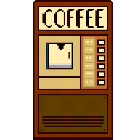
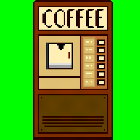
sauvgarde link model-controller objets et portes

diff --git a/Controller/controller.c b/Controller/controller.c
@@ -5,7 +5,58 @@
 #include "../Controller/controller.h"
 
 
-int move_robot(View_app *view_app) {
+VertexList * init_game_engine(){
+    // creates room from file
+    VertexList * graph = readGraphFile("./Files_descriptors/Graph_Tests.txt");
+    Room * room1 = readRoomFile("./Files_descriptors/Room_Tests.txt");
+    Room * room2 = readRoomFile("./Files_descriptors/Room2.txt");
+
+    associateRoomWithVertexList(graph,room1);
+    associateRoomWithVertexList(graph, room2);
+/*
+    printGraph(graph);
+    setOnFirstVertex(graph);
+    printRoom(graph->current->R);
+    setOnNextVertex(graph);
+    printRoom(room2);*/
+    return graph;
+}
+
+void showRoom (View_app * view_app,Room * room){
+    update_room(room->name,room->filename,view_app);
+    int obj_id = 0;
+    for (int i = 0; i<=room->nb_i; i++){
+        for (int j= 0; j<=room->nb_j; j++){
+            fprintf(stdout, "ok1\n");
+            if (room->framing[i][j].o != NULL){
+                fprintf(stdout, "ok2\n");
+                SDL_Rect temp = {room->framing[i][j].Pos_x,room->framing[i][j].Pos_y,room->w,room->h};
+                view_app->object[obj_id].position = temp;
+                init_object(view_app,obj_id,room->framing[i][j].o->file_name);
+                obj_id ++;
+            }
+        }
+    }
+    if (room->framing[2][0].d != NULL){
+        if (strcmp(room->framing[2][0].d->id, "BRB")==0){
+
+            SDL_Rect temp = {room->framing[2][0].Pos_x,room->framing[2][0].Pos_y,room->w,room->h};
+            view_app->object[obj_id].position = temp;
+            init_object(view_app,obj_id,room->framing[2][0].d->file_name);
+            obj_id ++;
+        }
+    }
+    if (room->framing[2][8].d != NULL){
+        if (strcmp(room->framing[2][8].d->id, "BRB")==0){
+            SDL_Rect temp = {room->framing[2][8].Pos_x,room->framing[2][8].Pos_y,room->w,room->h};
+            view_app->object[obj_id].position = temp;
+            init_object(view_app,obj_id,room->framing[2][8].d->file_name);
+            obj_id ++;
+        }
+    }
+}
+
+int move_robot(View_app *view_app,VertexList * graph) {
     SDL_Point point;
 
     int isRunning = 1;
@@ -16,13 +67,8 @@ int move_robot(View_app *view_app) {
         fprintf (stderr, "failed init character \n");
         return EXIT_FAILURE;
     }
-
     Personage * p= CreatePersonage();
-    char filename [30];
-    strcpy(filename,"./img/coffee.png") ;
-    SDL_Rect temp = {420,140,140,140};
-    view_app->object[1].position = temp;
-    init_object(view_app,1,filename);
+    showRoom(view_app,graph->current->R);
     personWalkDown(view_app);
     move_down(p, 5);
 
@@ -124,7 +170,10 @@ int main_controller(View_app *view_app){
                                             return EXIT_FAILURE;
                                         }
                                         view_app->Actual = Play;
-                                        move_robot(view_app);
+                                        VertexList * graph = init_game_engine();printf("ok\n");
+                                        setOnFirstVertex(graph);
+                                        move_robot(view_app, graph);
+
                                         free_Windows(&view_app->Game);
                                         //executing menu window initialisation and checking it worked
                                         if (init_menu(&view_app->Menu) != EXIT_SUCCESS) {

diff --git a/View/main_view.c b/View/main_view.c
@@ -290,13 +290,13 @@ int init_game(Windows  * game_window){
         fprintf(stderr, "error SDL_CreateTexture : %s", SDL_GetError());
         return EXIT_FAILURE;
     }
-    game_window->Type=Rules;
+    game_window->Type = Play;
     get_Tittle (game_window->Type , game_window->title);
     SDL_SetWindowTitle(game_window->window, game_window->title);
 
     SDL_Surface *tmp = NULL;
     SDL_Texture *texture = NULL;
-    tmp = IMG_Load("img/Framing.png");
+    tmp = IMG_Load("img/background.jpg");
     if (NULL == tmp) {
         fprintf(stderr, "Erreur IMG_load: %s", SDL_GetError());
         SDL_DestroyRenderer(game_window->renderer);
@@ -329,7 +329,8 @@ int init_game(Windows  * game_window){
     // x=1516 y=4 w=170 h=70
     SDL_Rect return_but = {1400,1,140,60};
     game_window->Return_b = return_but;
-
+    SDL_Rect play = {980,420,140,60};
+    game_window->my_buttons[1] = play;
     status = EXIT_SUCCESS;
     return status;
 }
@@ -391,7 +392,7 @@ int init_object(View_app * app, int nb, char * filename){
         return EXIT_FAILURE;
     }
 
-    Uint32 color_key = SDL_MapRGB(surface2->format,255,255,255);
+    Uint32 color_key = SDL_MapRGB(surface2->format,0,255,0);
     SDL_SetColorKey(surface2,SDL_TRUE,color_key);
     texture2 = SDL_CreateTextureFromSurface(app->Game.renderer, surface2);
     if (NULL == texture2) {
@@ -400,7 +401,6 @@ int init_object(View_app * app, int nb, char * filename){
         SDL_DestroyTexture(texture2);
         return EXIT_FAILURE;
     }
-
 
     SDL_SetRenderTarget(app->Game.renderer,app->object[nb].texture);
     SDL_RenderCopy(app->Game.renderer,texture2,NULL,NULL);
@@ -414,6 +414,41 @@ int init_object(View_app * app, int nb, char * filename){
     SDL_SetRenderTarget(app->Game.renderer,NULL);
     SDL_RenderCopy(app->Game.renderer,app->Game.texture,NULL,NULL);
     SDL_RenderPresent(app->Game.renderer);
+    return EXIT_SUCCESS;
+}
+
+int update_room(char * title, char * filename, View_app * view_app){
+    SDL_SetWindowTitle(view_app->Game.window, title);
+    SDL_Surface *surface_temp = NULL;
+    SDL_Texture *texture_temp = NULL;
+    surface_temp = IMG_Load(filename);
+    if (NULL == surface_temp) {
+        fprintf(stderr, "Erreur IMG_load: %s", SDL_GetError());
+        SDL_DestroyRenderer(view_app->Game.renderer);
+        SDL_DestroyWindow(view_app->Game.window);
+        SDL_DestroyTexture(view_app->Game.texture);
+        SDL_Quit();
+        IMG_Quit();
+        return EXIT_FAILURE;
+    }
+    texture_temp = SDL_CreateTextureFromSurface(view_app->Game.renderer, surface_temp);
+    if (NULL == texture_temp) {
+        fprintf(stderr, "Erreur SDL_CreateTextureFromSurface : %s", SDL_GetError());
+        SDL_DestroyRenderer(view_app->Game.renderer);
+        SDL_DestroyWindow(view_app->Game.window);
+        SDL_DestroyTexture(view_app->Game.texture);
+        SDL_Quit();
+        IMG_Quit();
+        return EXIT_FAILURE;
+    }
+    SDL_SetRenderTarget(view_app->Game.renderer,view_app->Game.texture);
+    SDL_RenderCopy(view_app->Game.renderer,texture_temp,NULL,NULL);
+    SDL_DestroyTexture(texture_temp);
+    SDL_FreeSurface(surface_temp);
+    SDL_SetRenderTarget(view_app->Game.renderer,NULL);
+    SDL_RenderCopy(view_app->Game.renderer,view_app->Game.texture,NULL,NULL);
+    SDL_RenderPresent(view_app->Game.renderer);
+
     return EXIT_SUCCESS;
 }
 

diff --git a/View/main_view.h b/View/main_view.h
@@ -4,7 +4,7 @@
 
 #ifndef PROJET_ESCAPE_MAIN_VIEW_H
 #define PROJET_ESCAPE_MAIN_VIEW_H
-#define NB_OF_OBJECTS 2
+#define NB_OF_OBJECTS 10
 #include "SDL2/SDL.h"
 #include "SDL2/SDL_image.h"
 
@@ -130,6 +130,15 @@ int init_rules(Windows * rules_window);
  * @return 0 if no problem during credits initializing, 1 if goes wrong
  */
 int init_game(Windows *game_window);
+
+/**
+ * used in the controller, this function updates the gaming window background to a defined room
+ * @param title
+ * @param filename
+ * @param view_app
+ * @return 0 if no problem during room updating, 1 if goes wrong
+ */
+int update_room(char * title, char * filename, View_app * view_app);
 
 //personnage
 /**

diff --git a/Controller/controller.h b/Controller/controller.h
@@ -13,9 +13,13 @@
  * @param r
  * @return 0 if can, 1 if can't
  */
-int hit_box(Personage * p, Room * r);
+//int hit_box(Personage * p, Room * r);
 
-int move_robot(View_app *view_app);
+VertexList * init_game_engine();
+
+void showRoom (View_app * view_app,Room * room);
+
+int move_robot(View_app *view_app,VertexList * graph);
 int main_controller(View_app *view_app);
 
 

diff --git a/Model/file.c b/Model/file.c
@@ -33,7 +33,7 @@ Room * readRoomFile(char * PATH){
      * Ouvre, lit le fichier au chemin PATH, et crée la Room
      * et appelle la fonction read line pour y ajouter des objets/des portes
      */
-    int cppt=3;
+    int cppt=4;
     char * tampon = (char *) malloc(sizeof(char)*TMAX);
     FILE * f= openFileRead(PATH);
 

diff --git a/Model/model.h b/Model/model.h
@@ -153,7 +153,7 @@ void deleteEdgeList(EdgeList * c);
 struct Vertex{
     char * label;
     EdgeList * connect;//vide de base
-    Room *R;
+    Room * R;
     int enigma_number;
     Vertex * previous_v;
     Vertex * next_v;
